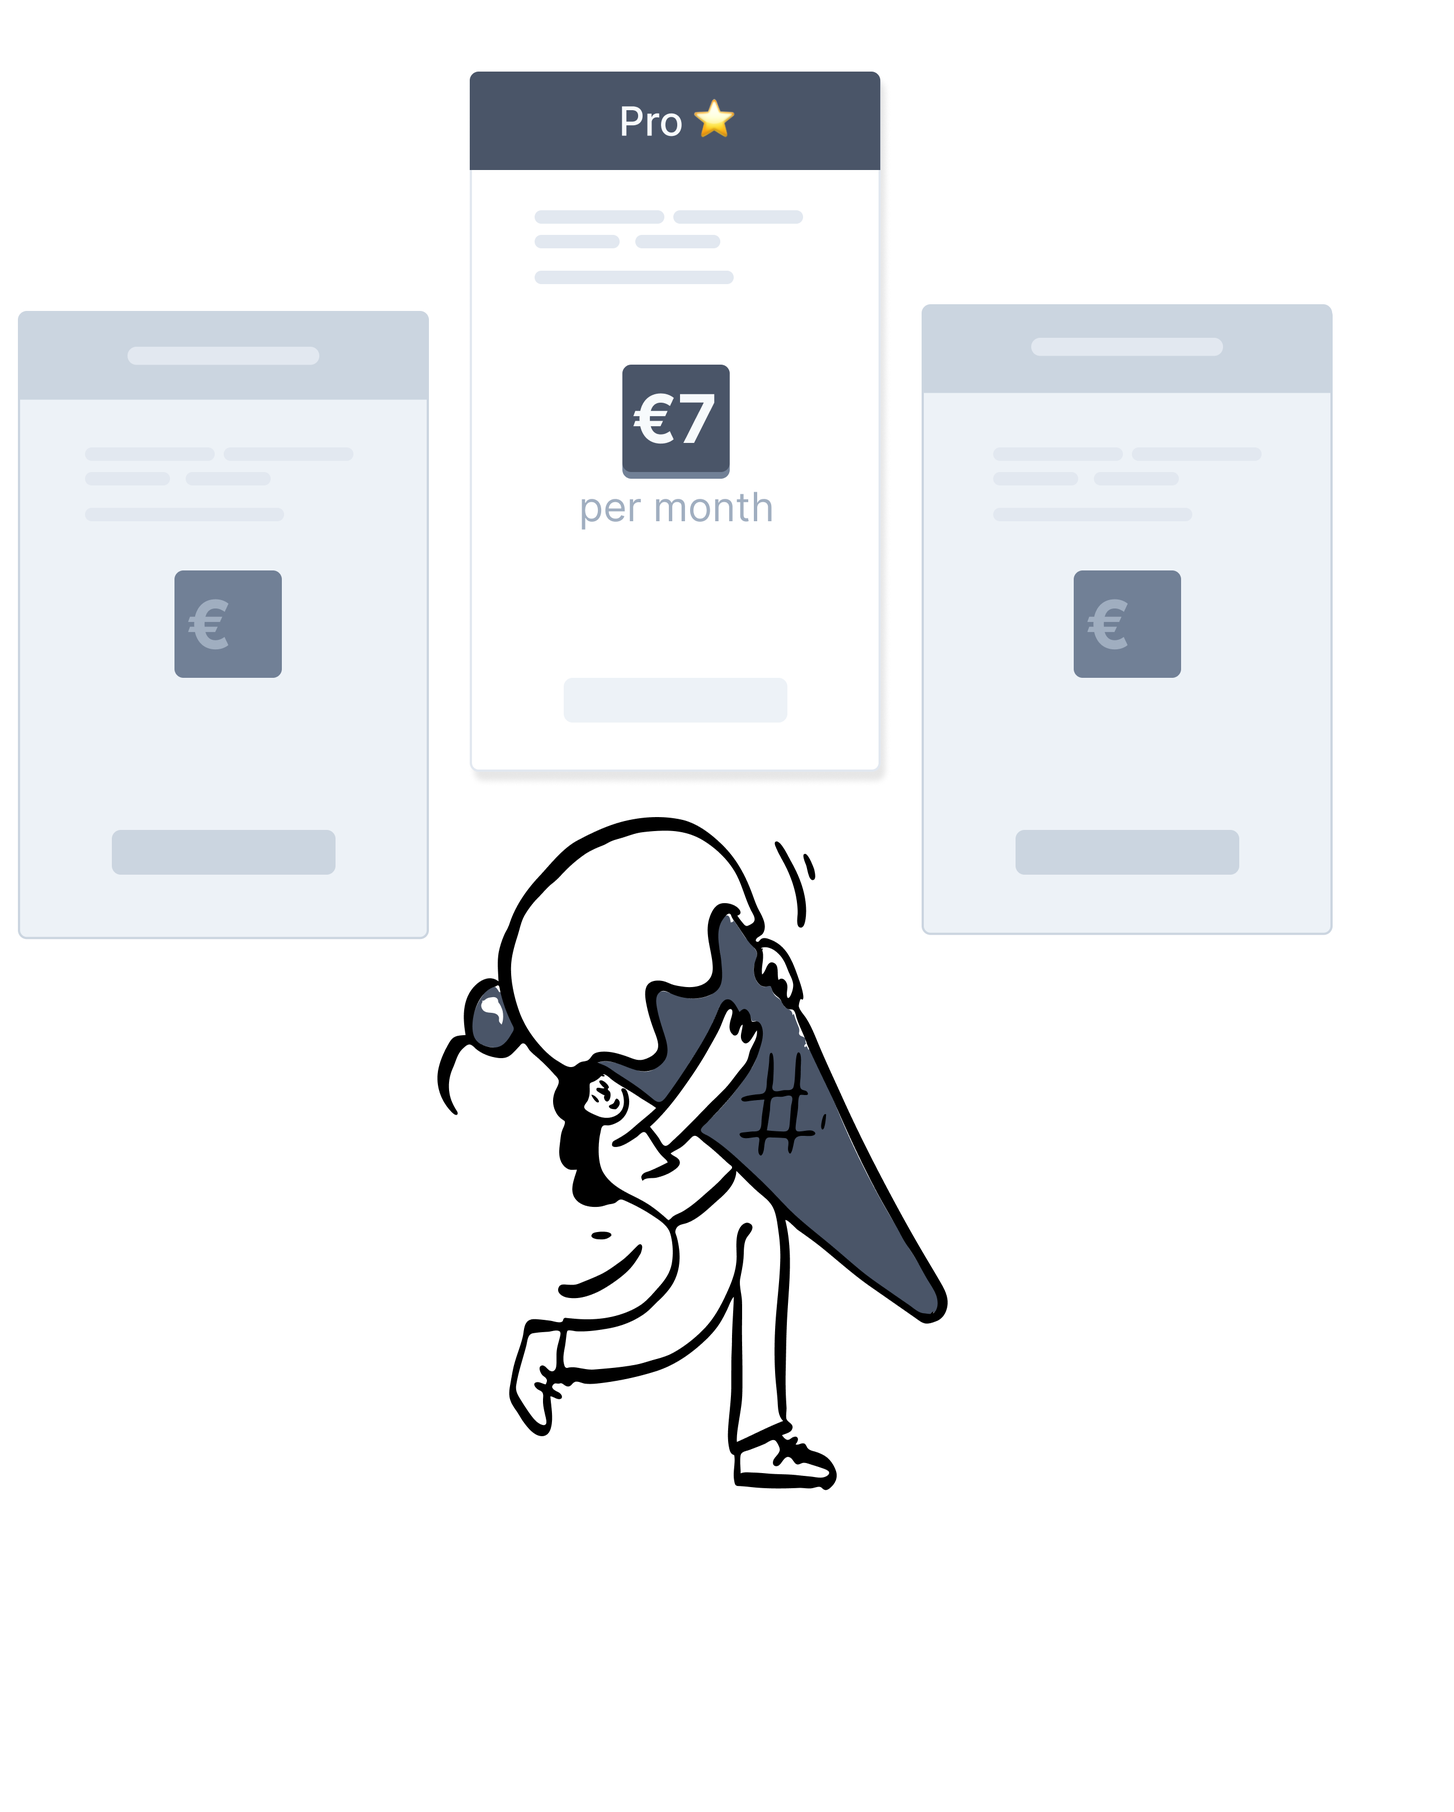
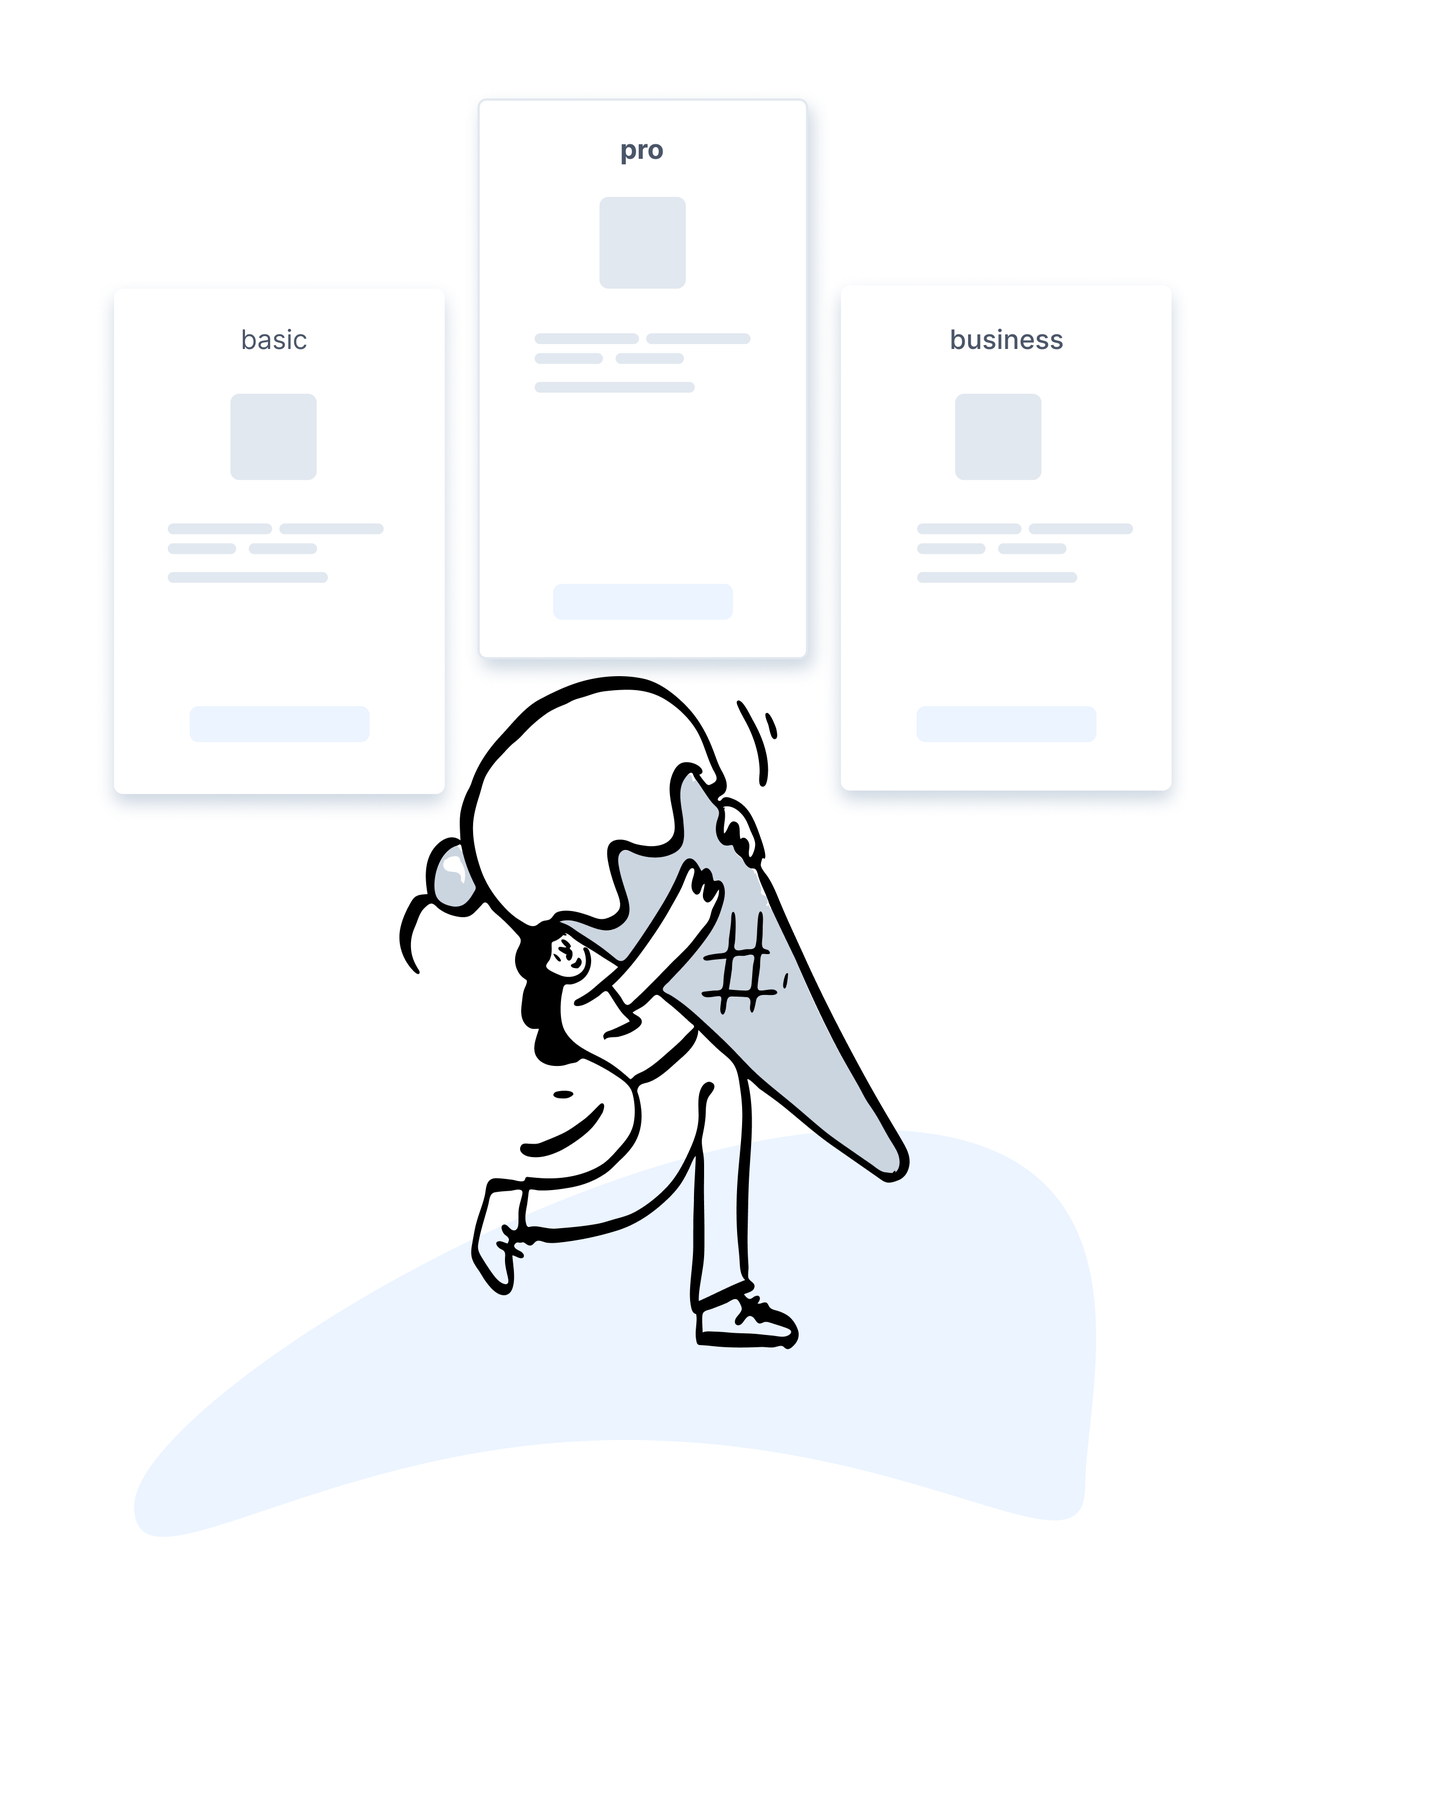
adjust copy

diff --git a/public/index.html b/public/index.html
@@ -1,27 +1,24 @@
 <!DOCTYPE html>
 <html lang="en">
-  <head>
-    <meta charset="utf-8" />
-    <meta
-      name="viewport"
-      content="width=device-width, initial-scale=1, shrink-to-fit=no"
-    />
-    <link rel="icon" type="image/png" sizes="32x32" href="/favicon-32x32.png" />
-    <link rel="icon" type="image/png" sizes="16x16" href="/favicon-16x16.png" />
-    <!-- <link rel="stylesheet" type="text/css" href="Recoleta_Bold.css" />
-    <link rel="stylesheet" href="/build/index.css" /> -->
-    <link rel="stylesheet" href="/build/tailwind.css" />
 
-    <title>Recipeboard</title>
-  </head>
-  <body class="antialiased">
-    <div class="relative overflow-hidden bg-white">
-      <div class="max-w-screen-xl mx-auto">
-        <div
-          class="relative z-10 pb-8 bg-white sm:pb-16 md:pb-20 lg:max-w-2xl lg:w-full lg:pb-28 xl:pb-32"
-        >
-          <!-- diagonal stuff-->
-          <!-- <svg
+<head>
+  <meta charset="utf-8" />
+  <meta name="viewport" content="width=device-width, initial-scale=1, shrink-to-fit=no" />
+  <link rel="icon" type="image/png" sizes="32x32" href="/favicon-32x32.png" />
+  <link rel="icon" type="image/png" sizes="16x16" href="/favicon-16x16.png" />
+  <!-- <link rel="stylesheet" type="text/css" href="Recoleta_Bold.css" />
+    <link rel="stylesheet" href="/build/index.css" /> -->
+  <link rel="stylesheet" href="/build/tailwind.css" />
+
+  <title>Recipeboard</title>
+</head>
+
+<body class="antialiased">
+  <div class="relative overflow-hidden bg-white">
+    <div class="max-w-screen-xl mx-auto">
+      <div class="relative z-10 pb-8 bg-white sm:pb-16 md:pb-20 lg:max-w-2xl lg:w-full lg:pb-28 xl:pb-32">
+        <!-- diagonal stuff-->
+        <!-- <svg
             class="absolute inset-y-0 right-0 hidden w-48 h-full text-white transform translate-x-1/2 lg:block"
             fill="currentColor"
             viewBox="0 0 100 100"
@@ -30,7 +27,7 @@
             <polygon points="50,0 100,0 50,100 0,100" />
           </svg> -->
 
-          <!-- <div class="relative px-4 pt-6 sm:px-6 lg:px-8">
+        <!-- <div class="relative px-4 pt-6 sm:px-6 lg:px-8">
             <nav
               class="relative flex items-center justify-between sm:h-10 lg:justify-start"
             >
@@ -97,7 +94,7 @@
             </nav>
           </div> -->
 
-          <!--
+        <!--
           Mobile menu, show/hide based on menu open state.
   
           Entering: "duration-150 ease-out"
@@ -107,7 +104,7 @@
             From: "opacity-100 scale-100"
             To: "opacity-0 scale-95"
         -->
-          <!-- <div
+        <!-- <div
             class="absolute inset-x-0 top-0 p-2 transition origin-top-right transform md:hidden"
           >
             <div class="rounded-lg shadow-md">
@@ -175,192 +172,145 @@
             </div>
           </div> -->
 
-          <div
-            class="max-w-screen-xl px-4 mx-auto my-10 sm:mt-12 sm:px-6 md:mt-16 lg:mt-20 lg:px-8 xl:mt-28"
-          >
-            <div class="text-center sm:text-center lg:text-left">
-              <h2
-                class="text-4xl font-extrabold leading-10 tracking-tight text-gray-900 sm:text-5xl sm:leading-none md:text-6xl"
-              >
-                A place to share your recipes and
-                <br class="hidden md:block xl:hidden" />
-                <span class="text-yellow-600">build an audience</span>
-              </h2>
-              <p
-                class="mt-3 text-base text-gray-800 lg:text-gray-500 sm:mt-5 sm:text-lg sm:max-w-xl sm:mx-auto md:mt-5 md:text-xl lg:mx-0"
-              >
-                Create a digital cookbook. Build a community. Make money
-                directly from your followers.
-              </p>
+        <div class="max-w-screen-xl px-4 mx-auto my-10 sm:mt-12 sm:px-6 md:mt-16 lg:mt-20 lg:px-8 xl:mt-28">
+          <div class="text-center sm:text-center lg:text-left">
+            <h2
+              class="text-4xl font-extrabold leading-10 tracking-tight text-gray-900 sm:text-5xl sm:leading-none md:text-6xl">
+              A place to create, save
+              <br class="hidden md:block xl:hidden" />
+              <span class="text-yellow-600">and sell your recipes</span>
+            </h2>
+            <p
+              class="mt-3 text-base text-gray-800 lg:text-gray-500 sm:mt-5 sm:text-lg sm:max-w-xl sm:mx-auto md:mt-5 md:text-xl lg:mx-0">
+              Create a digital cookbook. Build a community. Earn money
+              directly from your followers.
+            </p>
 
-              <form
-                action="https://orbitsurveys.us17.list-manage.com/subscribe/post"
-                method="POST"
-                class="w-full mt-8 lg:flex email-collect"
-              >
-                <input
-                  type="hidden"
-                  name="u"
-                  value="47ba8873a113fc70b795864aa"
-                />
-                <input type="hidden" name="id" value="8379f5e912" />
+            <form action="https://orbitsurveys.us17.list-manage.com/subscribe/post" method="POST"
+              class="w-full mt-8 lg:flex email-collect">
+              <input type="hidden" name="u" value="47ba8873a113fc70b795864aa" />
+              <input type="hidden" name="id" value="8379f5e912" />
 
-                <input
-                  type="email"
-                  class="w-full px-8 py-3 mb-4 border-2 border-gray-800 rounded shadow-sm outline-none lg:mb-0 lg:flex-grow-1 lg:-mr-4"
-                  autocapitalize="off"
-                  placeholder="Your email address"
-                  autocorrect="off"
-                  name="MERGE0"
-                  id="MERGE0"
-                  size="25"
-                  value=""
-                />
+              <input type="email"
+                class="w-full px-8 py-3 mb-4 border-2 border-gray-800 rounded shadow-sm outline-none lg:mb-0 lg:flex-grow-1 lg:-mr-4"
+                autocapitalize="off" placeholder="Your email address" autocorrect="off" name="MERGE0" id="MERGE0"
+                size="25" value="" />
 
-                <button
-                  class="flex items-center justify-center w-full px-8 py-3 font-bold leading-6 text-white transition duration-150 ease-in-out bg-gray-900 border border-transparent rounded-md hover:text-red-400 lg:flex-shrink-0 lg:rounded-l-none lg:w-48 hover:bg-gray-800 focus:outline-none focus:shadow-outline md:py-4 md:px-5"
-                  type="submit"
-                >
-                  Get early access
-                </button>
-              </form>
-              <small class="block mt-1 text-xs text-gray-600 align-self"
-                >We will only send you an email to notify you when early access
-                opens up.</small
-              >
-            </div>
+              <button
+                class="flex items-center justify-center w-full px-8 py-3 font-bold leading-6 text-white transition duration-150 ease-in-out bg-gray-900 border border-transparent rounded-md hover:text-red-400 lg:flex-shrink-0 lg:rounded-l-none lg:w-48 hover:bg-gray-800 focus:outline-none focus:shadow-outline md:py-4 md:px-5"
+                type="submit">
+                Get early access
+              </button>
+            </form>
+            <small class="block mt-1 text-xs text-gray-600 align-self">We will only send you an email to notify you when
+              early access
+              opens up.</small>
           </div>
         </div>
       </div>
-      <div
-        class="absolute top-0 right-0 z-0 hidden w-64 h-32 bg-yellow-600 lg:block panel"
-      ></div>
-      <div
-        class="hidden mt-16 mr-32 lg:block lg:absolute lg:inset-y-0 lg:right-0 lg:w-1/3"
-      >
-        <img
-          style="height: 550px;"
-          class="object-cover w-full h-64 rounded-lg sm:h-72 md:h-96 lg:w-full lg:h-full"
-          src="./hero.jpg"
-          alt=""
-        />
-      </div>
     </div>
-
-    <!-- feature 1 -->
-    <div style="background: #f4f0eb;" class="w-screen mt-8 feature-wrapper">
-      <div class="justify-between max-w-screen-xl p-8 mx-auto lg:p-16 lg:flex">
-        <div class="flex-shrink-0 mr-16 lg:w-1/2 feature-text">
-          <h2 class="text-4xl leading-relaxed text-gray-900">
-            <svg
-              fill="#D69E2E"
-              viewBox="0 0 20 20"
-              style="height: 40px; height: 40px;"
-            >
-              <path
-                d="M6.672 1.911a1 1 0 10-1.932.518l.259.966a1 1 0 001.932-.518l-.26-.966zM2.429 4.74a1 1 0 10-.517 1.932l.966.259a1 1 0 00.517-1.932l-.966-.26zm8.814-.569a1 1 0 00-1.415-1.414l-.707.707a1 1 0 101.415 1.415l.707-.708zm-7.071 7.072l.707-.707A1 1 0 003.465 9.12l-.708.707a1 1 0 001.415 1.415zm3.2-5.171a1 1 0 00-1.3 1.3l4 10a1 1 0 001.823.075l1.38-2.759 3.018 3.02a1 1 0 001.414-1.415l-3.019-3.02 2.76-1.379a1 1 0 00-.076-1.822l-10-4z"
-                clip-rule="evenodd"
-                fill-rule="evenodd"
-              ></path>
-            </svg>
-            Add recipes to your board
-          </h2>
-          <p class="mb-4 text-xl font-medium leading-relaxed text-gray-800">
-            Creating and editing recipes is a breeze with our modern recipe
-            editor. Add ingredients, cooking times, dietary information and
-            more. It's all there.
-          </p>
-          <button
-            class="flex items-center justify-center w-full px-8 py-3 font-bold leading-6 text-white transition duration-150 ease-in-out bg-gray-900 border border-transparent rounded-md hover:text-red-400 lg:flex-shrink-0 lg:w-64 hover:bg-gray-800 focus:outline-none focus:shadow-outline md:py-4 md:px-5"
-          >
-            Check out an example →
-          </button>
-        </div>
-        <div class="feature-hero">
-          <img class="object-cover" src="./add_recipe.png" />
-        </div>
-      </div>
+    <div class="absolute top-0 right-0 z-0 hidden w-64 h-32 bg-yellow-600 lg:block panel"></div>
+    <div class="hidden mt-16 mr-32 lg:block lg:absolute lg:inset-y-0 lg:right-0 lg:w-1/3">
+      <img style="height: 550px;" class="object-cover w-full h-64 rounded-lg sm:h-72 md:h-96 lg:w-full lg:h-full"
+        src="./hero.jpg" alt="" />
     </div>
+  </div>
 
-    <!-- feature 2 -->
+  <!-- feature 1 -->
+  <div style="background: #f4f0eb;" class="w-screen mt-8 feature-wrapper">
     <div class="justify-between max-w-screen-xl p-8 mx-auto lg:p-16 lg:flex">
-      <div class="mr-16 feature-hero">
-        <img class="object-cover" src="./pricing-2.png" />
-      </div>
-      <div class="flex-shrink-0 lg:w-1/2 feature-text">
+      <div class="flex-shrink-0 mr-16 lg:w-1/2 feature-text">
         <h2 class="text-4xl leading-relaxed text-gray-900">
-          <svg
-            fill="#D69E2E"
-            viewBox="0 0 20 20"
-            style="height: 40px; width: 40px;"
-          >
+          <svg fill="#D69E2E" viewBox="0 0 20 20" style="height: 40px; height: 40px;">
             <path
-              d="M9.049 2.927c.3-.921 1.603-.921 1.902 0l1.07 3.292a1 1 0 00.95.69h3.462c.969 0 1.371 1.24.588 1.81l-2.8 2.034a1 1 0 00-.364 1.118l1.07 3.292c.3.921-.755 1.688-1.54 1.118l-2.8-2.034a1 1 0 00-1.175 0l-2.8 2.034c-.784.57-1.838-.197-1.539-1.118l1.07-3.292a1 1 0 00-.364-1.118L2.98 8.72c-.783-.57-.38-1.81.588-1.81h3.461a1 1 0 00.951-.69l1.07-3.292z"
-            ></path>
+              d="M6.672 1.911a1 1 0 10-1.932.518l.259.966a1 1 0 001.932-.518l-.26-.966zM2.429 4.74a1 1 0 10-.517 1.932l.966.259a1 1 0 00.517-1.932l-.966-.26zm8.814-.569a1 1 0 00-1.415-1.414l-.707.707a1 1 0 101.415 1.415l.707-.708zm-7.071 7.072l.707-.707A1 1 0 003.465 9.12l-.708.707a1 1 0 001.415 1.415zm3.2-5.171a1 1 0 00-1.3 1.3l4 10a1 1 0 001.823.075l1.38-2.759 3.018 3.02a1 1 0 001.414-1.415l-3.019-3.02 2.76-1.379a1 1 0 00-.076-1.822l-10-4z"
+              clip-rule="evenodd" fill-rule="evenodd"></path>
           </svg>
-          Set your own price
+          Add recipes to your board
         </h2>
         <p class="mb-4 text-xl font-medium leading-relaxed text-gray-800">
-          Connect your bank account and charge as much as you want. You decide
-          what's free and whats behind your paywall. No tech skills required.
+          Creating and editing recipes is a breeze with our modern recipe
+          editor. Add ingredients, cooking times, dietary information and
+          more. It's all there.
         </p>
         <button
-          class="flex items-center justify-center flex-grow-0 px-8 py-3 font-bold leading-6 text-white transition duration-150 ease-in-out bg-gray-900 border border-transparent rounded-md hover:text-red-400 lg:flex-shrink-0 hover:bg-gray-800 focus:outline-none focus:shadow-outline md:py-4 md:px-5"
-        >
-          Read more about getting paid →
+          class="flex items-center justify-center w-full px-8 py-3 font-bold leading-6 text-white transition duration-150 ease-in-out bg-gray-900 border border-transparent rounded-md hover:text-red-400 lg:flex-shrink-0 lg:w-64 hover:bg-gray-800 focus:outline-none focus:shadow-outline md:py-4 md:px-5">
+          <span>Check out an example →
+            <small class='font-normal'>(coming soon)</small></span>
         </button>
       </div>
-    </div>
-
-    <!-- feature 3 -->
-    <div
-      class="justify-between max-w-screen-lg px-8 py-4 mx-auto mb-8 bg-red-400 rounded-lg lg:flex lg:px-16 lg:py-8"
-    >
-      <div class="flex-shrink-0 mr-16 lg:w-1/2 feature-text">
-        <h2 class="text-4xl leading-relaxed tracking-tight text-white">
-          <svg
-            fill="white"
-            viewBox="0 0 20 20"
-            style="height: 40px; height: 40px;"
-          >
-            <path
-              d="M4 4a2 2 0 00-2 2v4a2 2 0 002 2V6h10a2 2 0 00-2-2H4zm2 6a2 2 0 012-2h8a2 2 0 012 2v4a2 2 0 01-2 2H8a2 2 0 01-2-2v-4zm6 4a2 2 0 100-4 2 2 0 000 4z"
-              clip-rule="evenodd"
-              fill-rule="evenodd"
-            ></path>
-          </svg>
-          How much can I make?
-        </h2>
-        <p class="mb-4 text-xl font-medium leading-relaxed text-white">
-          Creating and editing recipes is a breeze with our modern recipe
-          editor. Add ingredients, cooking times, dietary information and more.
-          It's all there.
-        </p>
-      </div>
-      <div
-        class="flex flex-col justify-around h-64 px-3 py-8 m-auto text-center bg-white rounded lg:w-1/2 calculator"
-      >
-        <select class="w-full m-auto list-none lg:w-4/5">
-          <option>50 subscribers</option>
-          <option>100 subscribers</option>
-          <option>200 subscribers</option>
-          <option>500 subscribers</option>
-          <option>1500 subscribers</option>
-          <option>5000 subscribers</option>
-        </select>
-        <select class="w-full m-auto lg:w-4/5">
-          <option>$3 p/m</option>
-          <option>$5 p/m</option>
-          <option>$8 p/m</option>
-          <option>$12 p/m</option>
-          <option>$20 p/m</option>
-          <option>$50 p/m</option>
-        </select>
-
-        <span class="block text-xl font-semibold tracking-tighter text-gray-900"
-          >Total: $750 per month</span
-        >
+      <div class="feature-hero">
+        <img class="object-cover" src="./add_recipe.png" />
       </div>
     </div>
-  </body>
+  </div>
+
+  <!-- feature 2 -->
+  <div class="justify-between max-w-screen-xl p-8 mx-auto lg:p-16 lg:flex">
+    <div class="mr-16 feature-hero">
+      <img class="object-cover" src="./pricing-2.png" />
+    </div>
+    <div class="flex-shrink-0 lg:w-1/2 feature-text">
+      <h2 class="text-4xl leading-relaxed text-gray-900">
+        <svg fill="#D69E2E" viewBox="0 0 20 20" style="height: 40px; width: 40px;">
+          <path
+            d="M9.049 2.927c.3-.921 1.603-.921 1.902 0l1.07 3.292a1 1 0 00.95.69h3.462c.969 0 1.371 1.24.588 1.81l-2.8 2.034a1 1 0 00-.364 1.118l1.07 3.292c.3.921-.755 1.688-1.54 1.118l-2.8-2.034a1 1 0 00-1.175 0l-2.8 2.034c-.784.57-1.838-.197-1.539-1.118l1.07-3.292a1 1 0 00-.364-1.118L2.98 8.72c-.783-.57-.38-1.81.588-1.81h3.461a1 1 0 00.951-.69l1.07-3.292z">
+          </path>
+        </svg>
+        Set your own price
+      </h2>
+      <p class="mb-4 text-xl font-medium leading-relaxed text-gray-800">
+        Connect your bank account and charge as much as you want. You decide
+        what's free and whats behind your paywall. No tech skills required.
+      </p>
+      <button
+        class="flex items-center justify-center flex-grow-0 px-8 py-3 font-bold leading-6 text-white transition duration-150 ease-in-out bg-gray-900 border border-transparent rounded-md hover:text-red-400 lg:flex-shrink-0 hover:bg-gray-800 focus:outline-none focus:shadow-outline md:py-4 md:px-5">
+        <span>
+          Read more about getting paid → <br />
+          <small class='font-normal'>(coming soon)</small>
+        </span>
+      </button>
+    </div>
+  </div>
+
+  <!-- feature 3 -->
+  <div class="justify-between max-w-screen-lg px-8 py-4 mx-auto mb-8 bg-red-400 rounded-lg lg:flex lg:px-16 lg:py-8">
+    <div class="flex-shrink-0 mr-16 lg:w-1/2 feature-text">
+      <h2 class="text-4xl leading-relaxed tracking-tight text-white">
+        <svg fill="white" viewBox="0 0 20 20" style="height: 40px; height: 40px;">
+          <path
+            d="M4 4a2 2 0 00-2 2v4a2 2 0 002 2V6h10a2 2 0 00-2-2H4zm2 6a2 2 0 012-2h8a2 2 0 012 2v4a2 2 0 01-2 2H8a2 2 0 01-2-2v-4zm6 4a2 2 0 100-4 2 2 0 000 4z"
+            clip-rule="evenodd" fill-rule="evenodd"></path>
+        </svg>
+        How much can I make?
+      </h2>
+      <p class="mb-4 text-xl font-medium leading-relaxed text-white">
+        Creating and editing recipes is a breeze with our modern recipe
+        editor. Add ingredients, cooking times, dietary information and more.
+        It's all there.
+      </p>
+    </div>
+    <div class="flex flex-col justify-around h-64 px-3 py-8 m-auto text-center bg-white rounded lg:w-1/2 calculator">
+      <select class="w-full m-auto list-none lg:w-4/5">
+        <option>50 subscribers</option>
+        <option>100 subscribers</option>
+        <option>200 subscribers</option>
+        <option>500 subscribers</option>
+        <option>1500 subscribers</option>
+        <option>5000 subscribers</option>
+      </select>
+      <select class="w-full m-auto lg:w-4/5">
+        <option>$3 p/m</option>
+        <option>$5 p/m</option>
+        <option>$8 p/m</option>
+        <option>$12 p/m</option>
+        <option>$20 p/m</option>
+        <option>$50 p/m</option>
+      </select>
+
+      <span class="block text-xl font-semibold tracking-tighter text-gray-900">Total: $750 per month</span>
+    </div>
+  </div>
+</body>
+
 </html>
